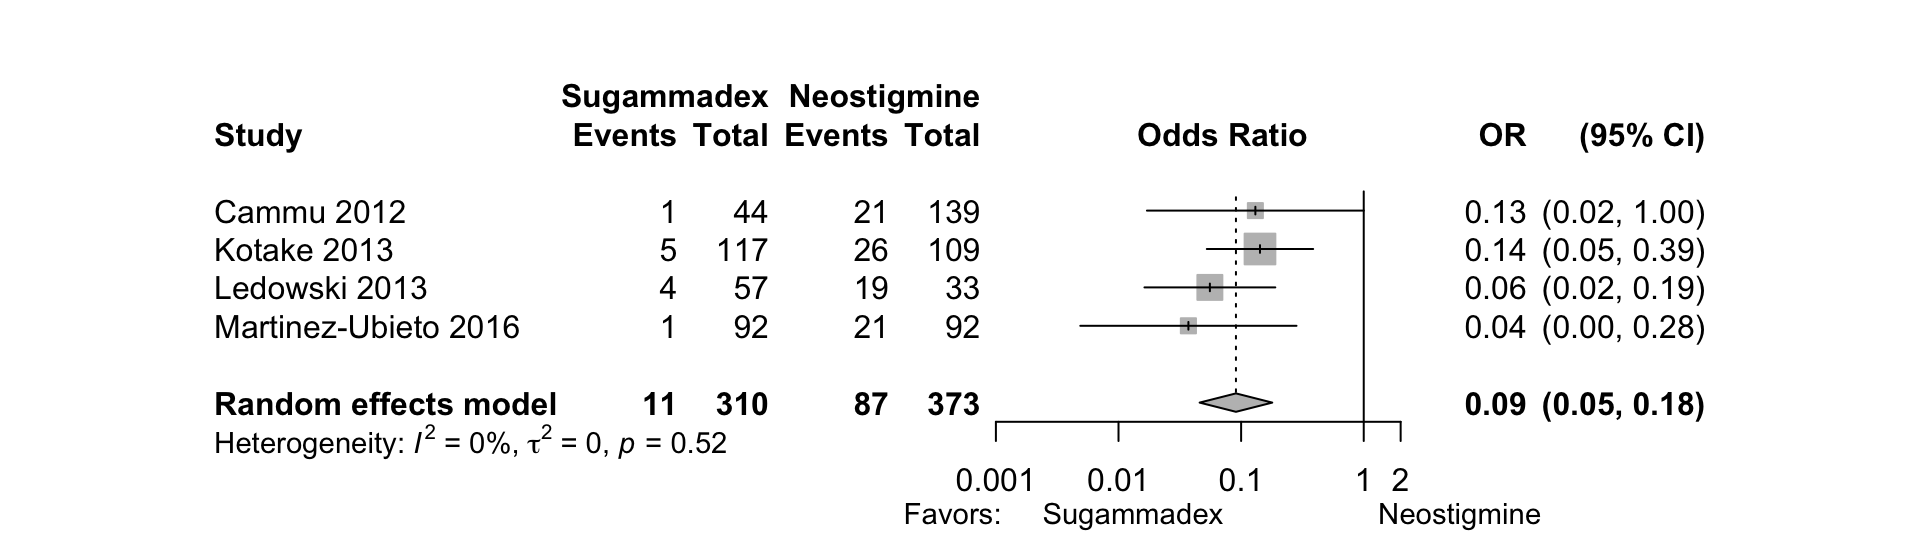
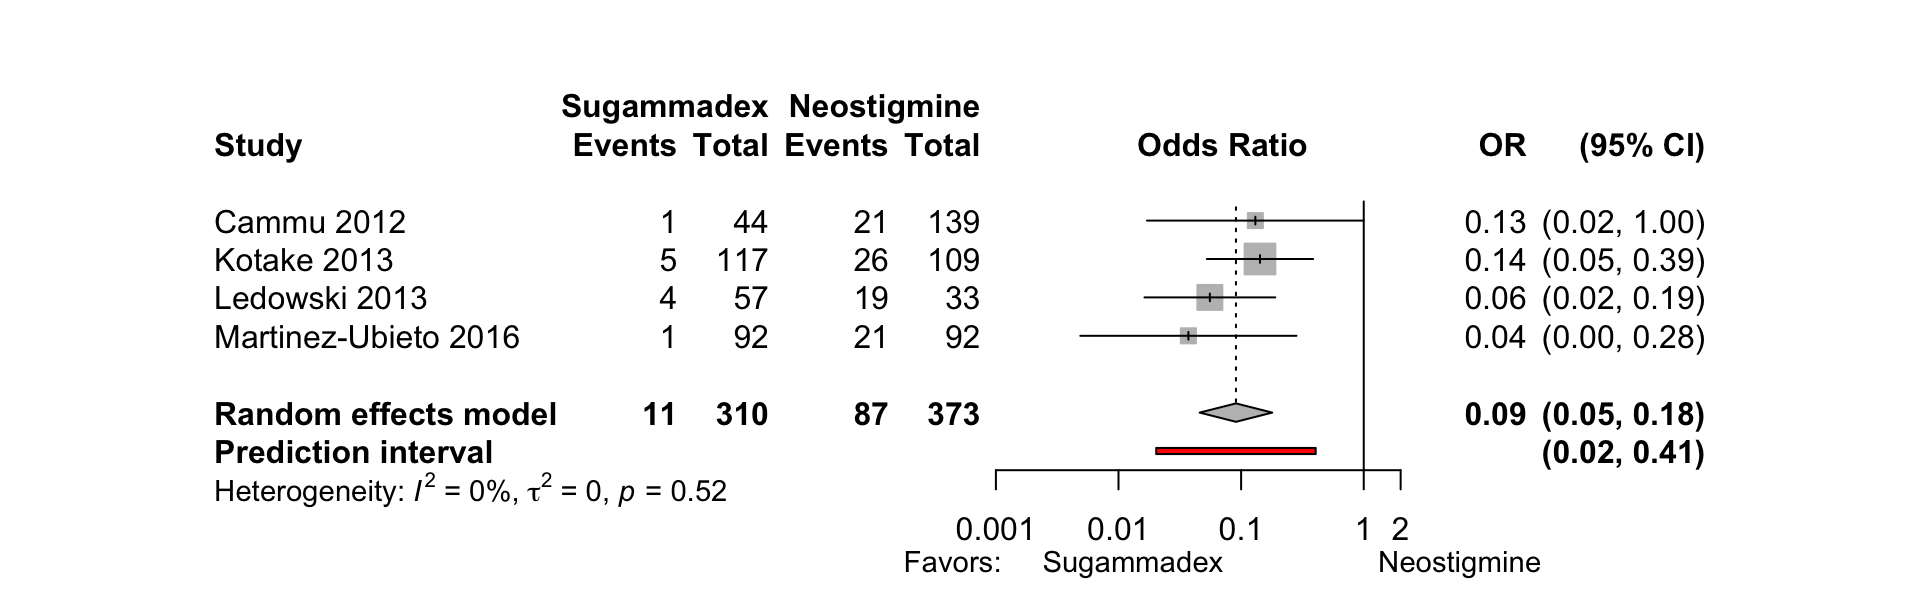
add prediction intervals

diff --git a/docs/reversal.html b/docs/reversal.html
@@ -403,7 +403,7 @@ div.tocify {
 
 
 <h1 class="title toc-ignore">Reversal</h1>
-<h4 class="date">20 January, 2022 (13:28)</h4>
+<h4 class="date">20 January, 2022 (13:51)</h4>
 
 </div>
 
@@ -519,16 +519,16 @@ This reproducible <a href="https://rmarkdown.rstudio.com">R Markdown</a> analysi
 <div class="panel panel-default">
 <div class="panel-heading">
 <p class="panel-title">
-<a data-toggle="collapse" data-parent="#workflowr-checks" href="#strongRepositoryversionstrongahrefhttpsgithubcommdgrantNMBtree180d1cc1589ef064bc01960d7c28b5316e4361c9targetblank180d1cca"> <span class="glyphicon glyphicon-ok text-success" aria-hidden="true"></span> <strong>Repository version:</strong> <a href="https://github.com/mdgrant/NMB/tree/180d1cc1589ef064bc01960d7c28b5316e4361c9" target="_blank">180d1cc</a> </a>
+<a data-toggle="collapse" data-parent="#workflowr-checks" href="#strongRepositoryversionstrongahrefhttpsgithubcommdgrantNMBtree34b0a7de6e390e9731a4f383ae3c069d96f999a9targetblank34b0a7da"> <span class="glyphicon glyphicon-ok text-success" aria-hidden="true"></span> <strong>Repository version:</strong> <a href="https://github.com/mdgrant/NMB/tree/34b0a7de6e390e9731a4f383ae3c069d96f999a9" target="_blank">34b0a7d</a> </a>
 </p>
 </div>
[2 lines of base64/hex data omitted]
 <div class="panel-body">
 <p>
 Great! You are using Git for version control. Tracking code development and connecting the code version to the results is critical for reproducibility.
 </p>
 <p>
-The results in this page were generated with repository version <a href="https://github.com/mdgrant/NMB/tree/180d1cc1589ef064bc01960d7c28b5316e4361c9" target="_blank">180d1cc</a>. See the <em>Past versions</em> tab to see a history of the changes made to the R Markdown and HTML files.
+The results in this page were generated with repository version <a href="https://github.com/mdgrant/NMB/tree/34b0a7de6e390e9731a4f383ae3c069d96f999a9" target="_blank">34b0a7d</a>. See the <em>Past versions</em> tab to see a history of the changes made to the R Markdown and HTML files.
 </p>
 <p>
 Note that you need to be careful to ensure that all relevant files for the analysis have been committed to Git prior to generating the results (you can use <code>wflow_publish</code> or <code>wflow_git_commit</code>). workflowr only checks the R Markdown file, but you know if there are other scripts or data files that it depends on. Below is the status of the Git repository when the results were generated:
@@ -605,6 +605,23 @@ Message
 </tr>
 </thead>
 <tbody>
+<tr>
+<td>
+html
+</td>
+<td>
+<a href="https://rawcdn.githack.com/mdgrant/NMB/34b0a7de6e390e9731a4f383ae3c069d96f999a9/docs/reversal.html" target="_blank">34b0a7d</a>
+</td>
+<td>
+Mark Grant
+</td>
+<td>
+2022-01-20
+</td>
+<td>
+update reversal time to include prediction
+</td>
+</tr>
 <tr>
 <td>
 html
@@ -14954,6 +14971,17 @@ Date
 </tr>
 </thead>
 <tbody>
+<tr>
+<td>
+<a href="https://github.com/mdgrant/NMB/blob/34b0a7de6e390e9731a4f383ae3c069d96f999a9/docs/figure/reversal.Rmd/metaTime9-1.png" target="_blank">34b0a7d</a>
+</td>
+<td>
+Mark Grant
+</td>
+<td>
+2022-01-20
+</td>
+</tr>
 <tr>
 <td>
 <a href="https://github.com/mdgrant/NMB/blob/fa4dd5599c056ecc959c666f589757ff0534a502/docs/figure/reversal.Rmd/metaTime9-1.png" target="_blank">fa4dd55</a>
